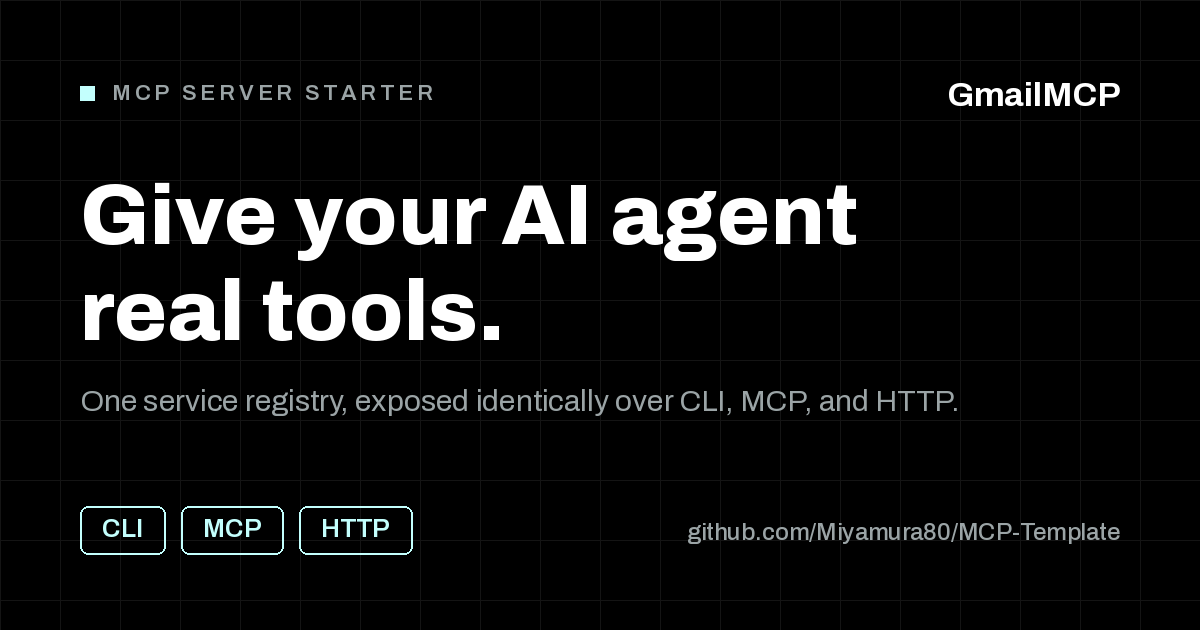
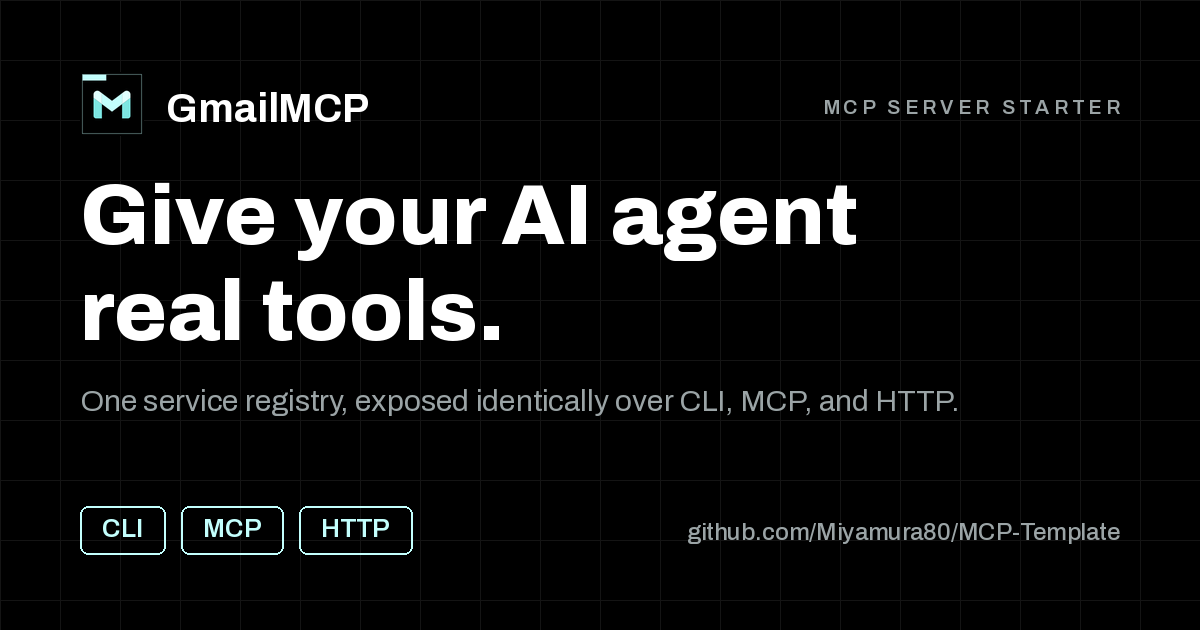
🔨 Use canonical Gmail Hackbox mark in OG social card
Main merged a new canonical favicon (the Gmail Hackbox mark, #112). Bring
the social-share card in line: gen-og.py now rasterizes public/favicon.svg
(cairosvg) and renders it as a brand lockup (mark + GmailMCP wordmark)
top-left, with the eyebrow moved top-right. Falls back to the cyan square
if cairosvg is unavailable.

Claude-Session: https://claude.ai/code/session_01548FebcgND3vMwMaB9jHf7

Changed region(s): [[0.0617, 0.1206, 0.37, 0.2111], [0.6783, 0.1206, 0.9558, 0.181]]

diff --git a/landing-page/scripts/gen-og.py b/landing-page/scripts/gen-og.py
@@ -5,14 +5,17 @@ Dev-only helper (the committed PNG is what ships). The Railway build runs
 `bun run build`, which does NOT run this - regenerate locally after editing the
 brand copy, then commit the new public/og.png:
 
-    uv run --with pillow python scripts/gen-og.py
+    uv run --with pillow --with cairosvg python scripts/gen-og.py
 
 Colors mirror the @theme tokens in src/styles/global.css and the copy mirrors
 src/config/landing.ts, so the card stays on-brand with the rest of the site.
+The brand mark is rasterized from the canonical public/favicon.svg (cairosvg);
+if cairosvg is unavailable it falls back to a plain cyan square.
 """
 
 from __future__ import annotations
 
+import io
 import urllib.request
 from pathlib import Path
 
@@ -55,6 +58,22 @@ def archivo(size: int, weight: int = 700) -> ImageFont.FreeTypeFont:
     return font
 
 
+def brand_mark(size: int) -> Image.Image | None:
+    """Rasterize the canonical favicon.svg to a square RGBA mark, or None."""
+    svg = Path(__file__).resolve().parent.parent / "public" / "favicon.svg"
+    try:
+        import cairosvg  # noqa: PLC0415 - optional dep, dev-only helper
+
+        png = cairosvg.svg2png(
+            url=str(svg), output_width=size * 2, output_height=size * 2
+        )
+    except (ImportError, OSError):
+        return None
+    return Image.open(io.BytesIO(png)).convert("RGBA").resize(
+        (size, size), Image.LANCZOS
+    )
+
+
 def draw_tracked(draw, xy, text, font, fill, tracking):
     """Draw text with manual letter-spacing (Pillow has no native tracking)."""
     x, y = xy
@@ -74,12 +93,24 @@ def main() -> None:
     for gy in range(0, H, 60):
         d.line([(0, gy), (W, gy)], fill=GRID, width=1)
 
-    # Eyebrow: cyan square + tracked uppercase label, like the hero pill.
-    eb_font = archivo(22, 600)
-    sq = 14
-    eb_y = PAD
-    d.rectangle([PAD, eb_y + 6, PAD + sq, eb_y + 6 + sq], fill=ACCENT)
-    draw_tracked(d, (PAD + sq + 18, eb_y), EYEBROW, eb_font, FG_MUTED, 4)
+    # Top row: brand lockup (canonical mark + wordmark) left, eyebrow right.
+    mark_size = 64
+    mark = brand_mark(mark_size)
+    row_y = PAD - 8
+    wm_font = archivo(40, 700)
+    if mark is not None:
+        img.paste(mark, (PAD, row_y), mark)
+        wm_x = PAD + mark_size + 22
+    else:
+        # Fallback: the hero's cyan square if the SVG can't be rasterized.
+        sq = 16
+        d.rectangle([PAD, row_y + 8, PAD + sq, row_y + 8 + sq], fill=ACCENT)
+        wm_x = PAD + sq + 18
+    d.text((wm_x, row_y + 14), WORDMARK, font=wm_font, fill=FG)
+
+    eb_font = archivo(20, 600)
+    eb_w = sum(d.textlength(c, font=eb_font) + 4 for c in EYEBROW) - 4
+    draw_tracked(d, (W - PAD - eb_w, row_y + 24), EYEBROW, eb_font, FG_MUTED, 4)
 
     # Headline.
     hl_font = archivo(86, 800)
@@ -108,11 +139,6 @@ def main() -> None:
     repo_font = archivo(24, 500)
     rw = d.textlength(REPO, font=repo_font)
     d.text((W - PAD - rw, py + 12), REPO, font=repo_font, fill=FG_MUTED)
-
-    # Wordmark, top-right.
-    wm_font = archivo(34, 700)
-    ww = d.textlength(WORDMARK, font=wm_font)
-    d.text((W - PAD - ww, PAD - 4), WORDMARK, font=wm_font, fill=FG)
 
     out = Path(__file__).resolve().parent.parent / "public" / "og.png"
     img.save(out, "PNG")

diff --git a/landing-page/README.md b/landing-page/README.md
@@ -21,10 +21,10 @@ Design tokens (colors, fonts, the accent) live in `src/styles/global.css` under 
 The `og:image` / `twitter:image` card is a committed 1200×630 PNG at `public/og.png` (the production build does **not** regenerate it). After changing the brand copy or tokens, regenerate and commit it:
 
 ```bash
-uv run --with pillow python scripts/gen-og.py
+uv run --with pillow --with cairosvg python scripts/gen-og.py
 ```
 
-`scripts/gen-og.py` mirrors the `@theme` colors and the `landing.ts` copy, and pulls the Archivo typeface at run time. To use a different card per page, pass `image="/my-og.png"` (and optionally `imageAlt`) to `Base.astro`.
+`scripts/gen-og.py` mirrors the `@theme` colors and the `landing.ts` copy, pulls the Archivo typeface at run time, and rasterizes the canonical brand mark from `public/favicon.svg`. To use a different card per page, pass `image="/my-og.png"` (and optionally `imageAlt`) to `Base.astro`.
 
 ## Develop
 
